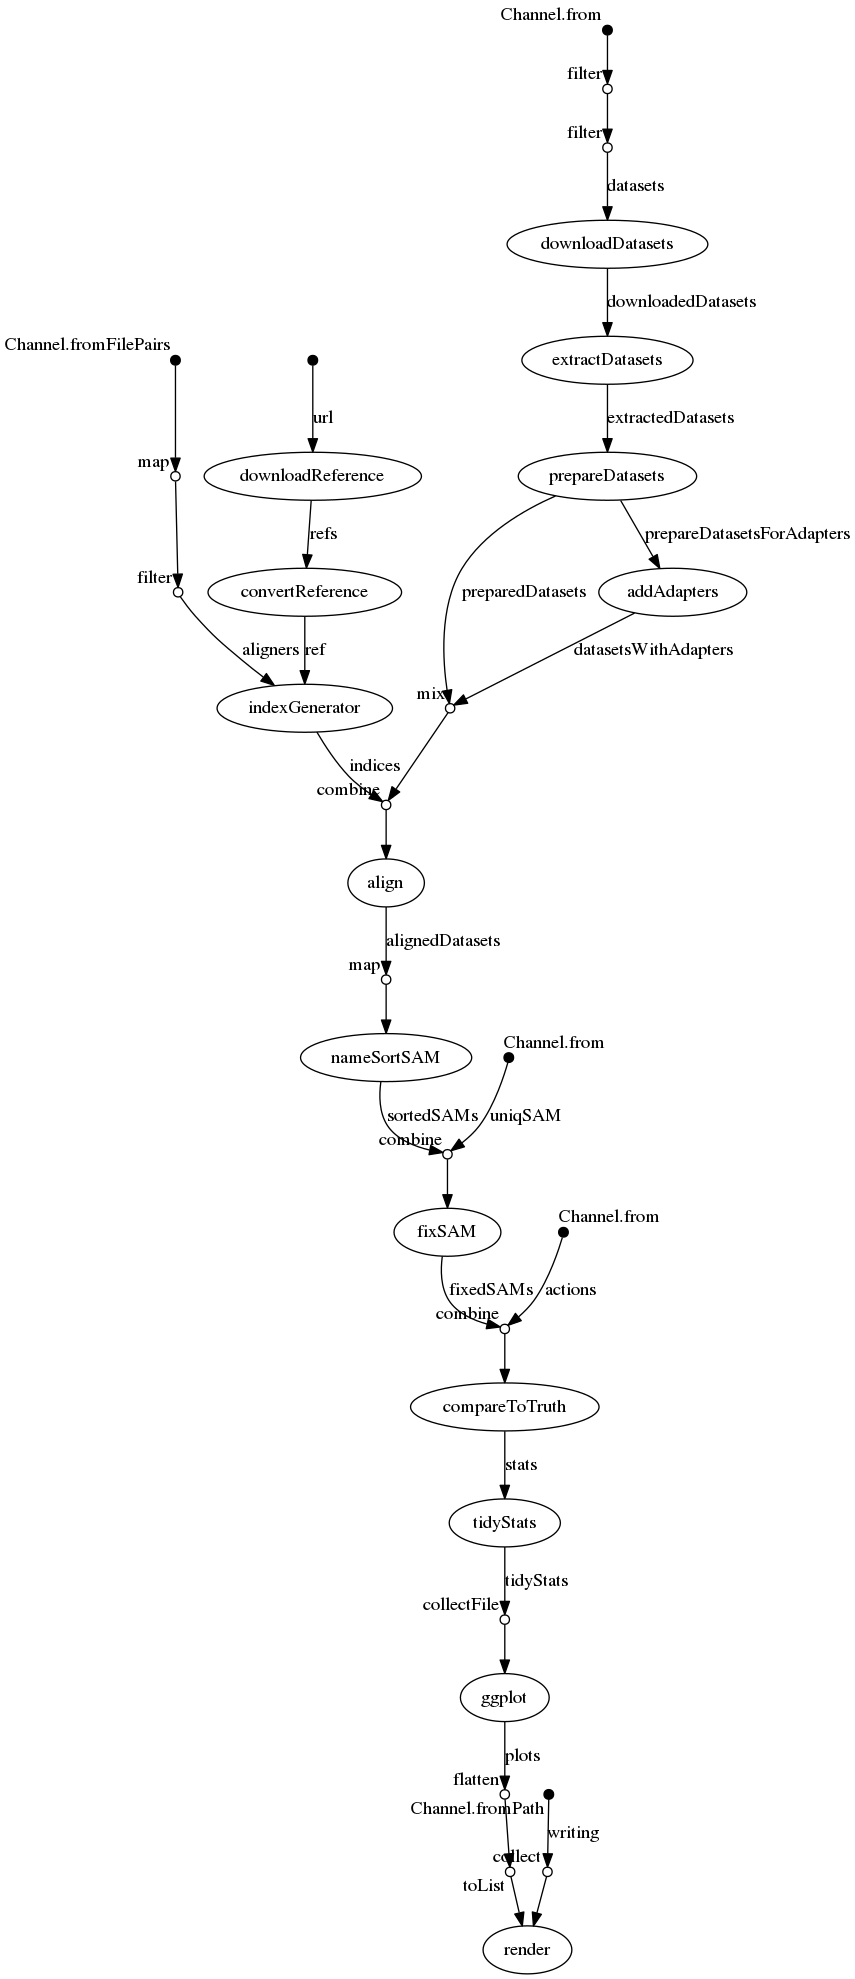
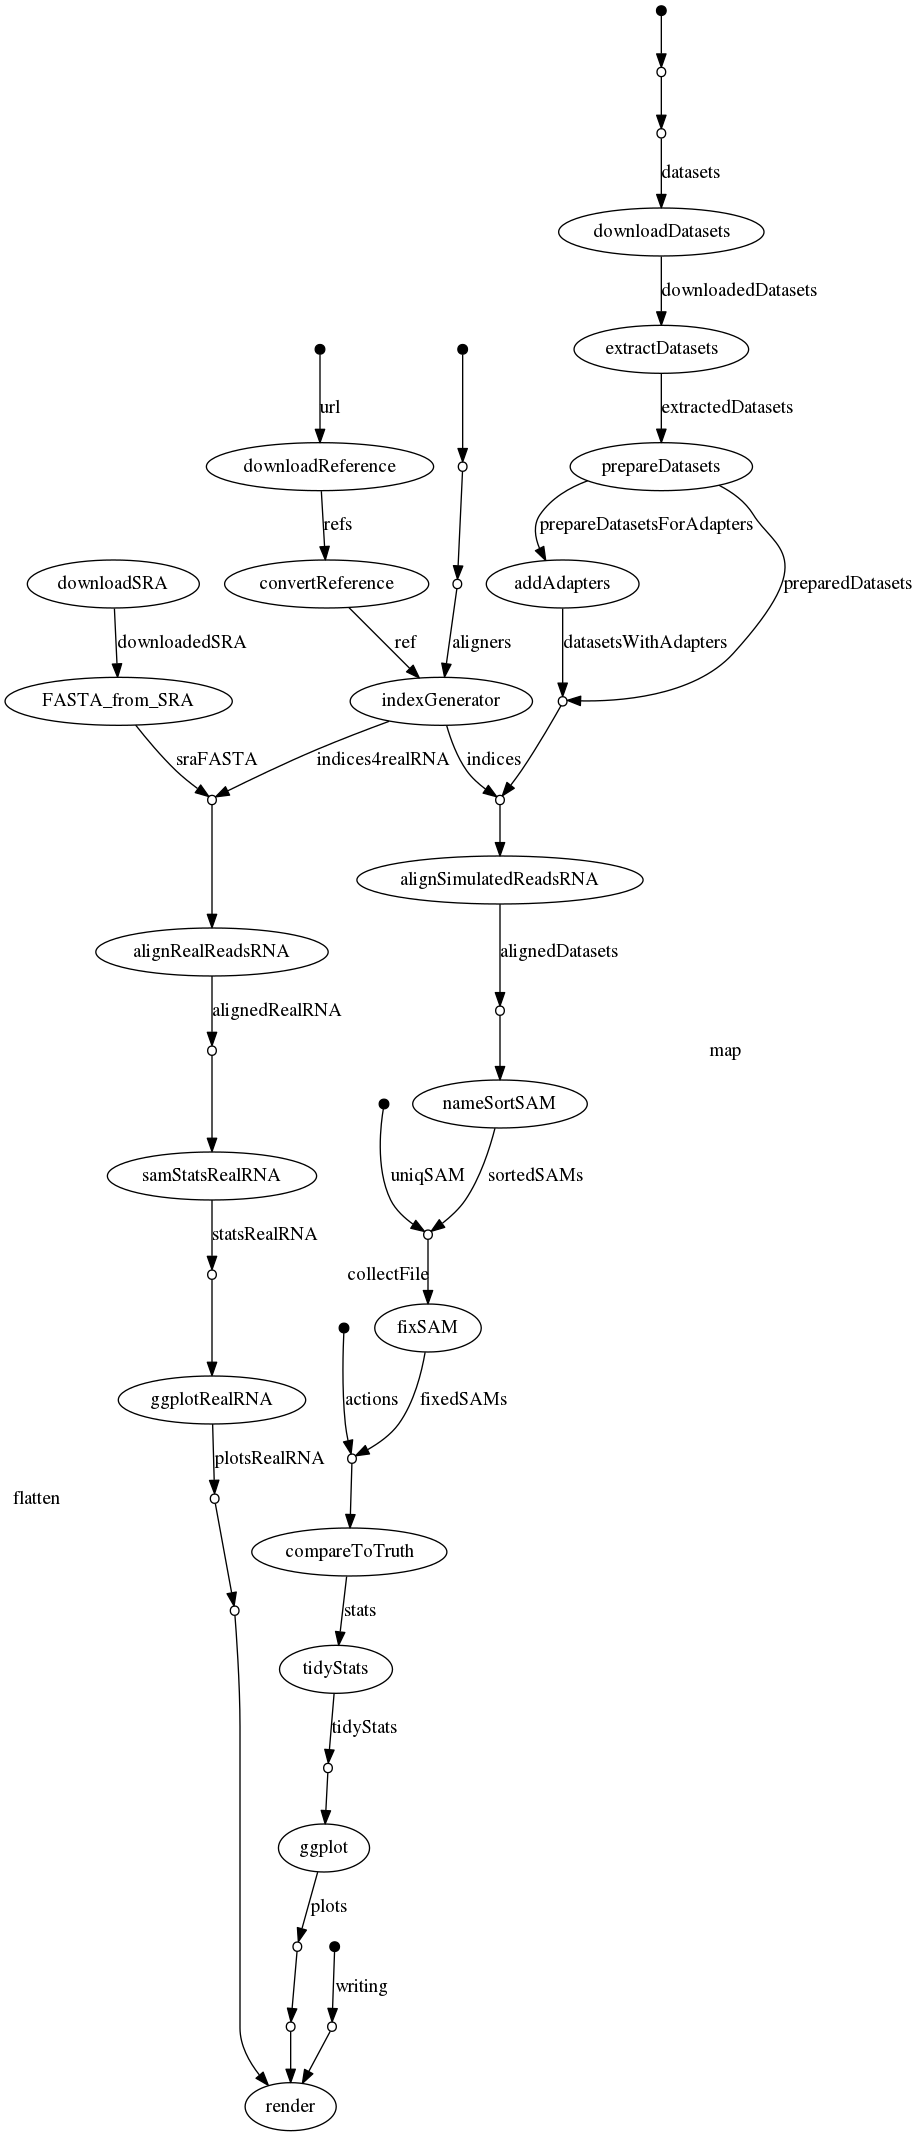
Updated doc
New DAG includes real RNA-Seq data path

diff --git a/README.md b/README.md
@@ -72,7 +72,7 @@ after replacing `your_s3_bucket` with a bucket you have created on S3.
 
 ## Full pipeline run
 
-There are a few execution options, all require Nextflow and either Docker or Singularity.
+There are a few ways to execute the pipeline, all require Nextflow and either Docker or Singularity.
 See [nextflow.config](nextflow.config#L22-L47) for available execution profiles, e.g. for local execution this could be
 
 ```
@@ -85,7 +85,9 @@ or on a SLURM cluster
 nextflow run csiro-crop-informatics/biokanga-manuscript -profile slurm,singularity,singularitymodule
 ```
 
-Note that `singularitymodule` profile is used to ensure singularity is available on each execution node by loading an appropriate module. This may need to be adapted for your system.
+Note that `singularitymodule` profile is used to ensure singularity is available on each execution node by loading an appropriate module.
+This may need to be adapted for your system.
+In addition Singularity must also be available on the node where you execute the pipeline.
 
 To run the pipeline on [AWS batch](https://aws.amazon.com/batch/), follow the [instructions above](#running-on-aws-batch) but drop the `--debug` flag.
 
@@ -93,7 +95,7 @@ To run the pipeline on [AWS batch](https://aws.amazon.com/batch/), follow the [i
 
 ![figures/dag.png](figures/dag.png)
 
-For comparison, here is [an earlier version of this graph](figures/dag-old-colmplex.png) -  before indexing and alignment processes were generalised to work with multiple tools.
+For comparison, here is [an earlier version of this graph](figures/dag-old-colmplex.png) -  before indexing and alignment processes were generalised to work with multiple tools. This earlier workflow also excludes evaluation based on real RNA-Seq data.
 
 ## Execution environment
 
@@ -197,7 +199,7 @@ There are several ways for rendering the manuscript outside the pipeline, with d
 ```sh
 docker run --rm --user $(id -u):$(id -g) \
   --volume $(pwd)/writing:/writing \
-  --workdir /writing rsuchecki/renderer:0.1 ./render.R
+  --workdir /writing rsuchecki/renderer:0.2 ./render.R
 ```
 
 ### Using singularity
